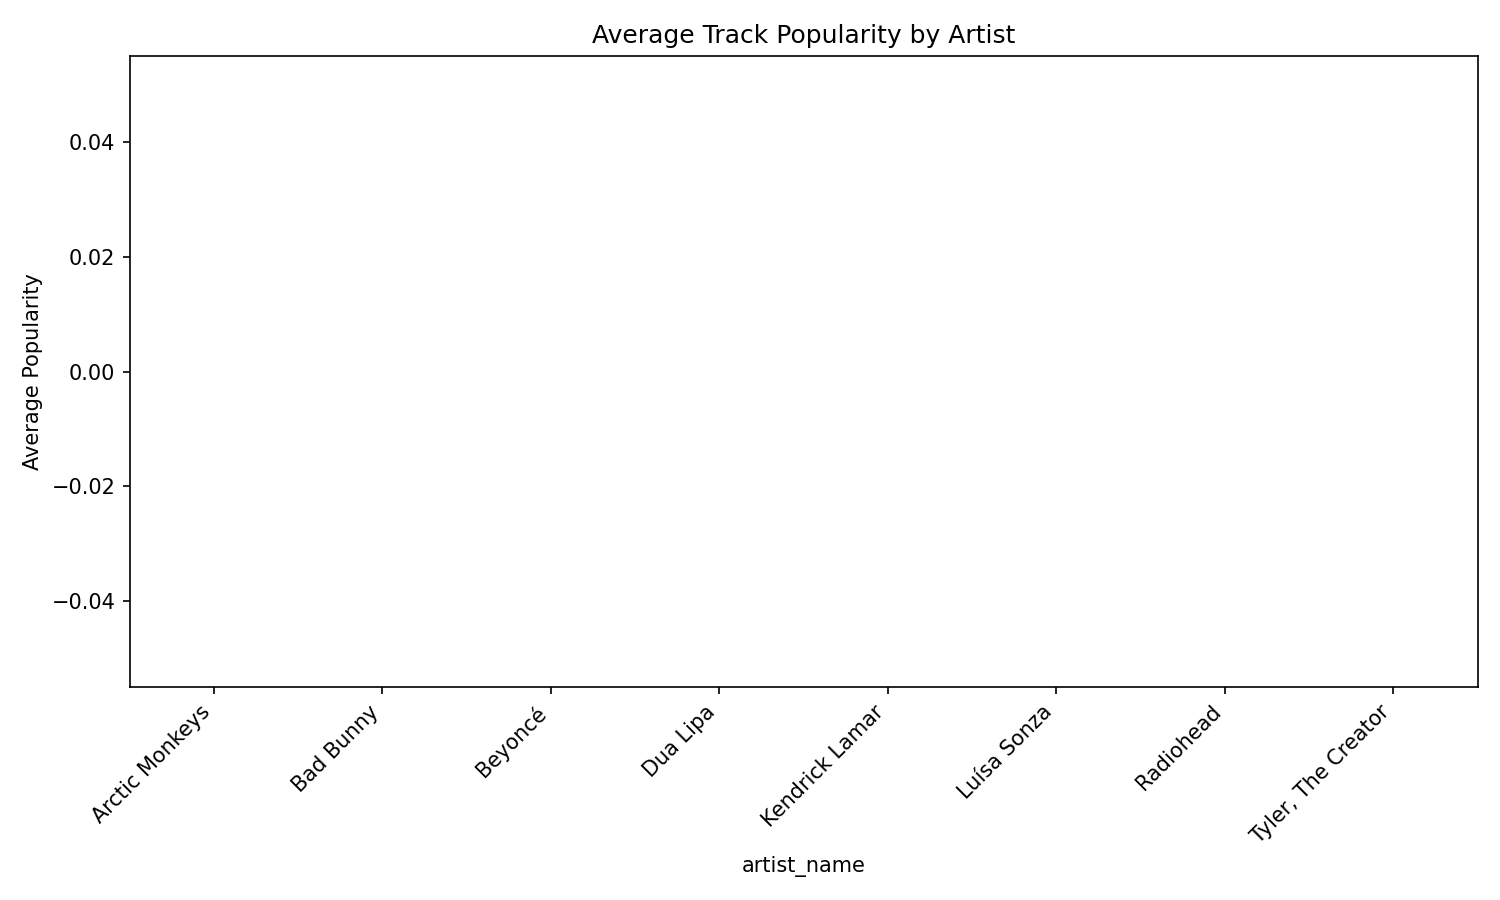
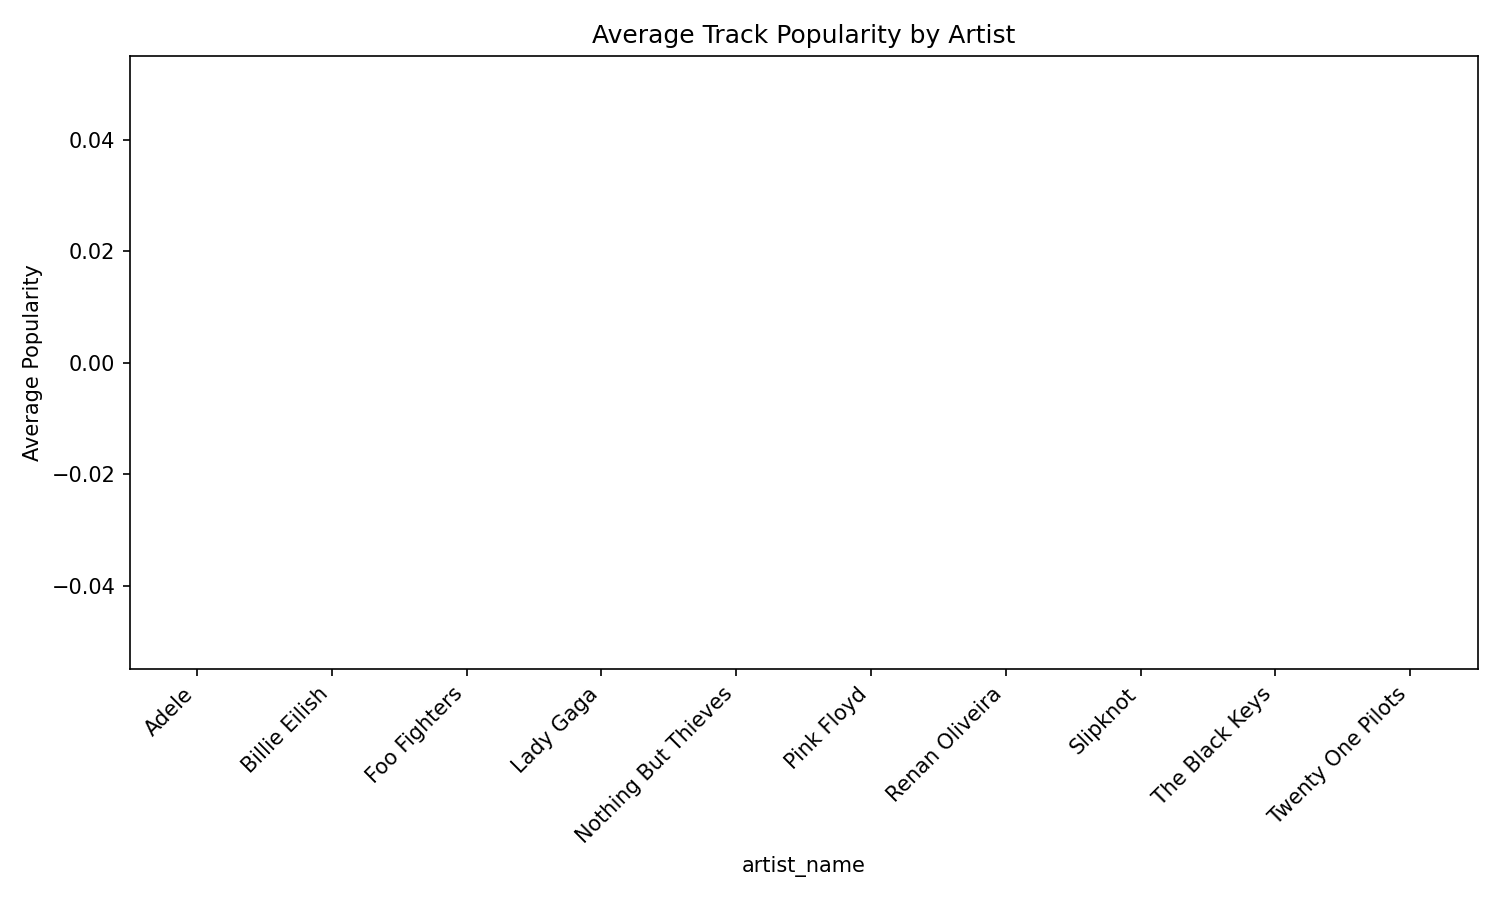
Add tests, update artists, add charts to README

diff --git a/tests/test_transform.py b/tests/test_transform.py
@@ -1,0 +1,143 @@
+"""
+Tests for the transform module.
+"""
+
+import json
+import os
+import pandas as pd
+import pytest
+from src.transform import transform
+
+SAMPLE_DATA = [
+    {
+        "artist_name": "Test Artist",
+        "artist_genres": ["rock", "indie"],
+        "track_name": "Song A",
+        "track_id": "abc123",
+        "album_name": "Album X",
+        "release_date": "2023-05-15",
+        "popularity": 85,
+        "duration_ms": 210000,
+        "explicit": False,
+    },
+    {
+        "artist_name": "Test Artist",
+        "artist_genres": ["rock", "indie"],
+        "track_name": "Song B",
+        "track_id": "def456",
+        "album_name": "Album X",
+        "release_date": "2023-05-15",
+        "popularity": 72,
+        "duration_ms": 185000,
+        "explicit": True,
+    },
+    {
+        "artist_name": "Another Artist",
+        "artist_genres": [],
+        "track_name": "Song C",
+        "track_id": "ghi789",
+        "album_name": "Album Y",
+        "release_date": "2020",
+        "popularity": 60,
+        "duration_ms": 300000,
+        "explicit": False,
+    },
+    {
+        "artist_name": "Another Artist",
+        "artist_genres": [],
+        "track_name": "Song C Duplicate",
+        "track_id": "ghi789",
+        "album_name": "Album Y",
+        "release_date": "2020",
+        "popularity": 60,
+        "duration_ms": 300000,
+        "explicit": False,
+    },
+]
+
+
+@pytest.fixture
+def setup_raw_data(tmp_path):
+    """Create temporary raw data file for testing."""
+    raw_dir = tmp_path / "data" / "raw"
+    raw_dir.mkdir(parents=True)
+    processed_dir = tmp_path / "data" / "processed"
+    processed_dir.mkdir(parents=True)
+
+    raw_path = raw_dir / "tracks_raw.json"
+    with open(raw_path, "w") as f:
+        json.dump(SAMPLE_DATA, f)
+
+    return tmp_path
+
+
+def test_transform_removes_duplicates(setup_raw_data, monkeypatch):
+    """Tracks with the same track_id should be deduplicated."""
+    tmp_path = setup_raw_data
+    monkeypatch.setattr("src.transform.RAW_PATH", str(tmp_path / "data" / "raw" / "tracks_raw.json"))
+    monkeypatch.setattr("src.transform.PROCESSED_DIR", str(tmp_path / "data" / "processed"))
+
+    df = transform()
+    track_ids = df["track_id"].tolist()
+    assert len(track_ids) == len(set(track_ids)), "Duplicate track_ids found"
+
+
+def test_transform_converts_duration(setup_raw_data, monkeypatch):
+    """Duration should be converted from ms to seconds."""
+    tmp_path = setup_raw_data
+    monkeypatch.setattr("src.transform.RAW_PATH", str(tmp_path / "data" / "raw" / "tracks_raw.json"))
+    monkeypatch.setattr("src.transform.PROCESSED_DIR", str(tmp_path / "data" / "processed"))
+
+    df = transform()
+    assert "duration_sec" in df.columns, "duration_sec column missing"
+    assert "duration_ms" not in df.columns, "duration_ms should be removed"
+    assert df.loc[df["track_id"] == "abc123", "duration_sec"].values[0] == 210.0
+
+
+def test_transform_parses_release_year(setup_raw_data, monkeypatch):
+    """Release dates should be parsed and release_year extracted."""
+    tmp_path = setup_raw_data
+    monkeypatch.setattr("src.transform.RAW_PATH", str(tmp_path / "data" / "raw" / "tracks_raw.json"))
+    monkeypatch.setattr("src.transform.PROCESSED_DIR", str(tmp_path / "data" / "processed"))
+
+    df = transform()
+    assert "release_year" in df.columns
+    assert 2023.0 in df["release_year"].values
+    assert 2020.0 in df["release_year"].values
+
+
+def test_transform_genres_to_string(setup_raw_data, monkeypatch):
+    """Genre lists should be converted to comma-separated strings."""
+    tmp_path = setup_raw_data
+    monkeypatch.setattr("src.transform.RAW_PATH", str(tmp_path / "data" / "raw" / "tracks_raw.json"))
+    monkeypatch.setattr("src.transform.PROCESSED_DIR", str(tmp_path / "data" / "processed"))
+
+    df = transform()
+    genres = df.loc[df["track_id"] == "abc123", "artist_genres"].values[0]
+    assert genres == "rock, indie"
+
+
+def test_transform_sorts_by_artist_and_popularity(setup_raw_data, monkeypatch):
+    """Results should be sorted by artist name asc, then popularity desc."""
+    tmp_path = setup_raw_data
+    monkeypatch.setattr("src.transform.RAW_PATH", str(tmp_path / "data" / "raw" / "tracks_raw.json"))
+    monkeypatch.setattr("src.transform.PROCESSED_DIR", str(tmp_path / "data" / "processed"))
+
+    df = transform()
+    assert df.iloc[0]["artist_name"] == "Another Artist"
+    assert df.iloc[1]["artist_name"] == "Test Artist"
+    assert df.iloc[1]["popularity"] >= df.iloc[2]["popularity"]
+
+
+def test_transform_saves_csv(setup_raw_data, monkeypatch):
+    """CSV file should be created in the processed directory."""
+    tmp_path = setup_raw_data
+    monkeypatch.setattr("src.transform.RAW_PATH", str(tmp_path / "data" / "raw" / "tracks_raw.json"))
+    monkeypatch.setattr("src.transform.PROCESSED_DIR", str(tmp_path / "data" / "processed"))
+
+    transform()
+    csv_path = tmp_path / "data" / "processed" / "tracks_clean.csv"
+    assert csv_path.exists(), "CSV file was not created"
+
+    df_csv = pd.read_csv(csv_path)
+    assert len(df_csv) == 3

diff --git a/src/extract.py b/src/extract.py
@@ -10,14 +10,16 @@ import os
 from src.spotify_client import get_access_token, search_artist, search_tracks
 
 ARTISTS = [
-    "Kendrick Lamar",
-    "Beyoncé",
-    "Arctic Monkeys",
-    "Bad Bunny",
-    "Anitta",
-    "Radiohead",
-    "Dua Lipa",
-    "Tyler, The Creator",
+    "Nothing But Thieves",
+    "Pink Floyd",
+    "Foo Fighters",
+    "Adele",
+    "Billie Eilish",
+    "Ren",
+    "Lady Gaga",
+    "The Black Keys",
+    "Slipknot",
+    "Twenty One Pilots",
 ]
 
 RAW_DIR = "data/raw"

diff --git a/README.md b/README.md
@@ -4,13 +4,22 @@ A Python data pipeline that extracts music data from the Spotify Web API, transf
 
 ## What it does
 
-1. **Extract** — Fetches top tracks and audio features (danceability, energy, valence, tempo, etc.) for a configurable list of artists via the Spotify API.
+1. **Extract** — Fetches tracks for a configurable list of artists via the Spotify Search API.
 2. **Transform** — Cleans the raw data: parses dates, removes duplicates, handles missing values, converts units, and saves as CSV and Parquet.
-3. **Analyze** — Generates summary statistics and charts: top tracks by popularity, danceability comparison across artists, and energy vs. valence scatter plots.
+3. **Analyze** — Generates summary statistics and charts: top tracks by popularity, average popularity by artist, and tracks per release year.
+
+## Sample results
+
+### Top 10 Most Popular Tracks
+![Top Tracks](data/processed/top_tracks.png)
+
+### Average Popularity by Artist
+![Popularity by Artist](data/processed/popularity_by_artist.png)
+
+### Tracks by Release Year
+![Tracks per Year](data/processed/tracks_per_year.png)
 
 ## Project structure
-
-```
 spotify-music-pipeline/
 ├── main.py                  # Runs the full pipeline
 ├── src/
@@ -20,18 +29,17 @@ spotify-music-pipeline/
 │   └── analyze.py           # Step 3: analysis and visualizations
 ├── data/
 │   ├── raw/                 # Raw JSON from API (git-ignored)
-│   └── processed/           # Clean CSV/Parquet + charts (git-ignored)
+│   └── processed/           # Clean CSV/Parquet + charts
+├── tests/                   # Unit tests
 ├── requirements.txt
 ├── .env.example             # Template for API credentials
 └── .gitignore
-```
-
 ## Setup
 
 ### 1. Clone the repository
 
 ```bash
-git clone https://github.com/YOUR_USERNAME/spotify-music-pipeline.git
+git clone https://github.com/anaalkmim/spotify-music-pipeline.git
 cd spotify-music-pipeline
 ```
 
@@ -63,28 +71,24 @@ cp .env.example .env
 python main.py
 ```
 
+### 6. Run tests
+
+```bash
+python -m pytest tests/ -v
+```
+
 ## Customization
 
 Edit the `ARTISTS` list in `src/extract.py` to collect data for any artists you want:
 
 ```python
 ARTISTS = [
-    "Kendrick Lamar",
-    "Beyoncé",
-    "Arctic Monkeys",
+    "Nothing But Thieves",
+    "Pink Floyd",
+    "Foo Fighters",
     # Add your favorites here
 ]
 ```
-
-## Sample output
-
-After running the pipeline, you'll find in `data/processed/`:
-
-- `tracks_clean.csv` — Clean dataset with all tracks and audio features
-- `tracks_clean.parquet` — Same data in Parquet format
-- `top_tracks.png` — Bar chart of the 10 most popular tracks
-- `danceability_by_artist.png` — Average danceability by artist
-- `energy_vs_valence.png` — Scatter plot of energy vs. valence (positivity)
 
 ## Tech stack
 
@@ -93,6 +97,7 @@ After running the pipeline, you'll find in `data/processed/`:
 - **pandas** — Data manipulation and cleaning
 - **matplotlib** — Data visualization
 - **python-dotenv** — Environment variable management
+- **pytest** — Testing
 
 ## License
 
